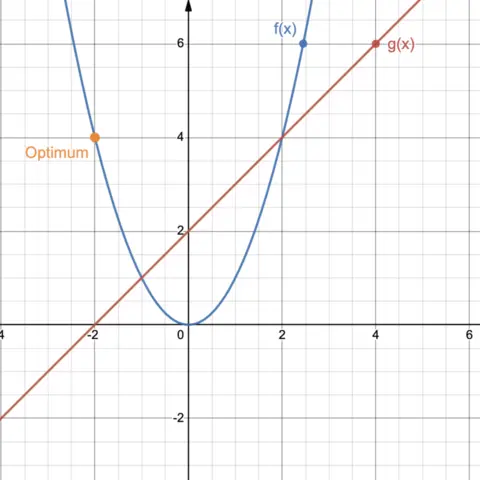
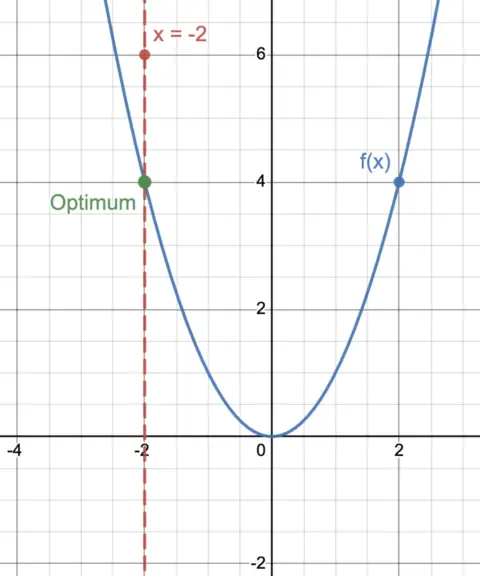
Deploying to gh-pages from @ theostoican/theostoican.github.io@9e6fe6437778be16754d7fc080d1b0cb163c8f9a 🚀

diff --git a/blog/2022/lagrangian/index.html b/blog/2022/lagrangian/index.html
@@ -256,7 +256,7 @@ An example of optimization problem where the optimal solution is different for i
 
 \[\max_{\lambda} \min_{x} L(x, \lambda)\]
 
-<p>This also means finding the saddle point of the Lagrangian. To see why this works, let us look at an example. To keep things simple, we will look at an optimization problem with one inequality constraint only (without loss of generality):</p>
+<p>This also means finding the saddle point of the Lagrangian. To see why this works, let us look at an example. To keep things simple, we will look at an optimization problem with one inequality constraint and one variable functions only (without loss of generality):</p>
 
 \[\min_{x} f(x)\]
 
@@ -282,7 +282,7 @@ An example of optimization problem where the optimal solution is different for i
 </figure>
 
 <p align="center">
-An example of optimization problem where we have a convex objective and one inequality constraint. Made with © Desmos.
+An example of optimization problem where we have a convex objective and one inequality constraint. The constrained area is to the left of the line $$x = -2$$. Made with © Desmos.
 </p>
 </div>
 
@@ -312,9 +312,9 @@ The same problem from before, where we see the dual for multiple values of lambd
 
 <p>As one can see, the more we increase \(\lambda\), the more the unconstrained minimum of \(f\) (at \(x=0\)) is penalized. That is the reason why the constrained minimum (\(g(\lambda)\)) has to move to the left of the unconstrained minimum, so that it is closer to the constraint line. At the same time, the more we move to the left (up to a certain point as we will see), the larger the value of the constrained minimum (than the previous constrained minimum) is. This is due to the fact that we are in a regime where the first terms of \(g\) is dominant (\(f(x)\)) and moving even slightly to the left entails moving farther from the unconstrained minimum of \(f\) and thus having higher values for \(f(x)\).</p>
 
-<p>However, by going left farther and farther and entering the area where the constraint is fulfilled (see \(\lambda=5\) in the figure from above), we enter a regime where the second term of \(g\) is dominant (\(\lambda g(x)\)). This term is negative, since the constraint is fulfilled. By increasing \(\lambda\), we only increase the influence of this term and thus generating smaller and smaller constrained minima (up to \(-\inf\)), that are far from what we are interested in.</p>
+<p>However, by going farther and farther to the left and entering the area where the constraint is fulfilled (see \(\lambda=5\) in the figure from above), we enter a regime where the second term of \(g\) is dominant (\(\lambda g(x)\)). This term is negative, since the constraint is fulfilled. By increasing \(\lambda\), we only increase the influence of this term and thus generating smaller and smaller constrained minima (up to \(-\inf\)), that are far from what we are interested in.</p>
 
-<p>The point we are actually interested in is at the intersection of the 2 regimes. \(\lambda\) should be high enough such that all points to the right of the constraint line are sufficiently penalized and can not be optima anymore (the first term of \(g\) is not overly influential), but small enough such that the points that are well into the constrained area are not overly appreciated (the second term of \(g\) is not overly powerful). This point in which we are interested corresponds to \(\lambda=4\) in the figure from above. It also corresponds to the point for which \(g(x)=0\) (exactly on the edge of the constrained area). Finding this point corresponds to finding the maximum of \(g\) and finding the maximum of \(g\) entails solving $$\max_{\lambda}\min_{x} L(x, \lambda), thus the saddle point of the Lagrangian.</p>
+<p>The point we are actually interested in is at the intersection of the 2 regimes. \(\lambda\) should be high enough such that all points to the right of the constraint line are sufficiently penalized and can not be optima anymore (the first term of \(g\) is not overly influential), but small enough such that the points that are well into the constrained area are not overly appreciated (the second term of \(g\) is not overly powerful). This point in which we are interested corresponds to \(\lambda=4\) in the figure from above. It also corresponds to the point for which \(g(x)=0\) (exactly on the edge of the constrained area). Finding this point corresponds to finding the maximum of \(g\) and finding the maximum of \(g\) entails solving \(\max_{\lambda}\min_{x} L(x, \lambda)\), thus the saddle point of the Lagrangian.</p>
 
 <p>This method, like the one of the Lagrange multipliers for equality constraints, can naturally be generalized to multiple constraints.</p>
 
